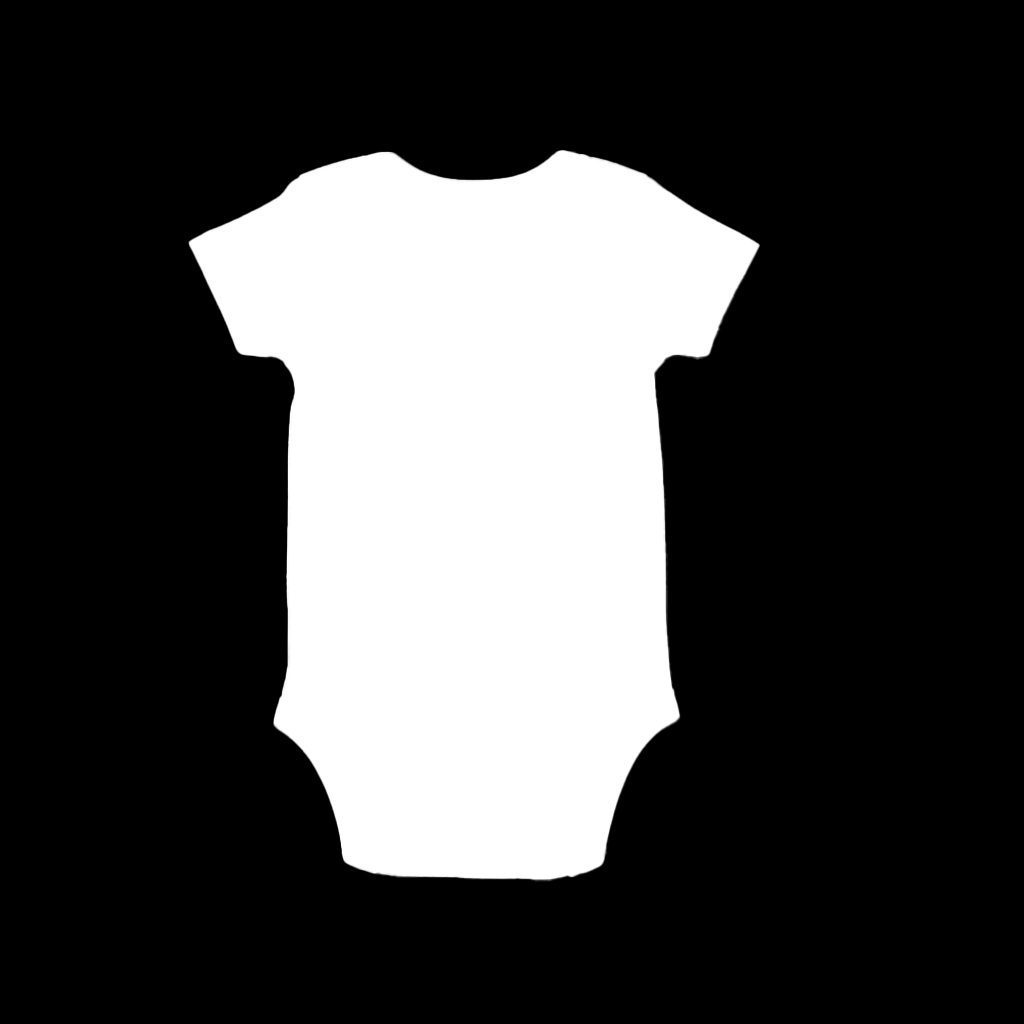
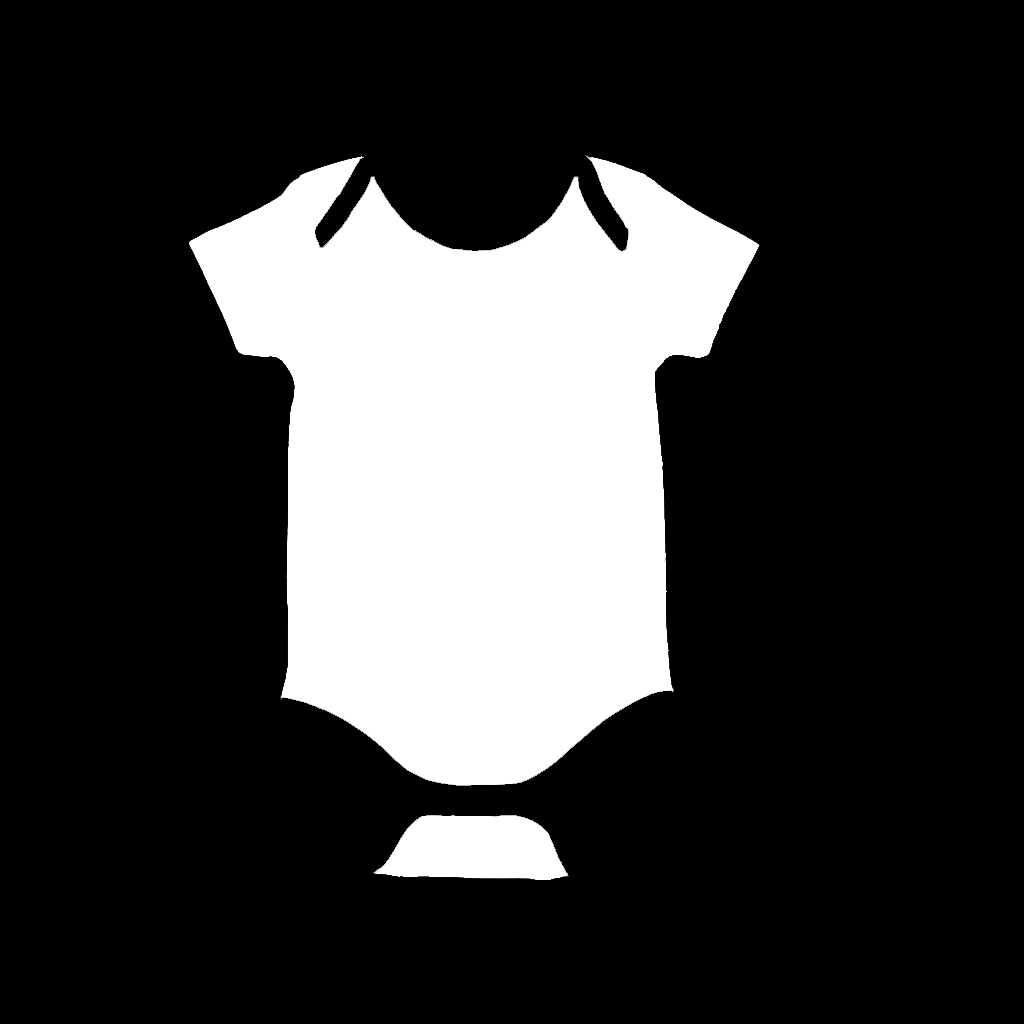
Add onesie trim color override and refresh masks
Expose a onesie trim color picker, support override rendering, and force mask reloads while updating the latest mask assets.

Changed region(s): [[0.25, 0.6562, 0.6875, 0.875], [0.3125, 0.125, 0.625, 0.25]]

diff --git a/src/components/sidebar/ActionsSidebar.tsx b/src/components/sidebar/ActionsSidebar.tsx
@@ -24,6 +24,7 @@ export default function ActionsSidebar({ image, dpi, tileWidth, tileHeight, repe
   const [densityAnalysis, setDensityAnalysis] = useState<DensityAnalysis | null>(null);
   const [isAnalyzing, setIsAnalyzing] = useState(false);
   const [selectedMockup, setSelectedMockup] = useState<string | null>(null);
+  const [mockupColorOverride, setMockupColorOverride] = useState<string | null>(null);
   const [isEasyscaleModalOpen, setIsEasyscaleModalOpen] = useState(false);
   const [tileCanvas, setTileCanvas] = useState<HTMLCanvasElement | null>(null);
   const [isPro] = useState(true); // TODO: Replace with actual Pro subscription check - TEMPORARILY TRUE FOR TESTING
@@ -255,7 +256,10 @@ export default function ActionsSidebar({ image, dpi, tileWidth, tileHeight, repe
         {selectedMockup && (
           <MockupModal
             isOpen={!!selectedMockup}
-            onClose={() => setSelectedMockup(null)}
+            onClose={() => {
+              setSelectedMockup(null);
+              setMockupColorOverride(null);
+            }}
             title={getMockupTemplate(selectedMockup as any)?.name}
             onDownload={() => {
               // Find the canvas element in the mockup renderer
@@ -264,7 +268,7 @@ export default function ActionsSidebar({ image, dpi, tileWidth, tileHeight, repe
                 const dataURL = mockupCanvas.toDataURL('image/png', 1.0);
                 const link = document.createElement('a');
                 const template = getMockupTemplate(selectedMockup as any);
-                link.download = originalFilename 
+                link.download = originalFilename
                   ? `${originalFilename}-${template?.name?.toLowerCase().replace(/\s+/g, '-') || 'mockup'}.png`
                   : `mockup-${template?.name?.toLowerCase().replace(/\s+/g, '-') || 'mockup'}.png`;
                 link.href = dataURL;
@@ -274,18 +278,43 @@ export default function ActionsSidebar({ image, dpi, tileWidth, tileHeight, repe
               }
             }}
           >
-            <div className="flex items-center justify-center bg-white rounded-lg p-4">
-              <div className="w-full max-w-2xl">
-                <MockupRenderer
-                  template={getMockupTemplate(selectedMockup as any)}
-                  patternImage={image}
-                  tileWidth={tileWidth}
-                  tileHeight={tileHeight}
-                  dpi={dpi}
-                  repeatType={repeatType}
-                  zoom={zoom}
-                  onClick={() => {}}
-                />
+            <div className="flex flex-col gap-3">
+              {/* Color picker for onesie only */}
+              {selectedMockup === 'onesie' && (
+                <div className="flex items-center justify-center gap-2 p-2 bg-[#ffe4e7] rounded-md">
+                  <label className="text-xs font-medium text-[#294051]">Onesie Trim Color:</label>
+                  <input
+                    type="color"
+                    value={mockupColorOverride || '#ffffff'}
+                    onChange={(e) => setMockupColorOverride(e.target.value)}
+                    className="w-10 h-8 rounded border border-[#92afa5]/30 cursor-pointer"
+                  />
+                  {mockupColorOverride && (
+                    <button
+                      onClick={() => setMockupColorOverride(null)}
+                      className="text-xs text-[#705046] hover:text-[#294051] underline"
+                    >
+                      Reset to auto
+                    </button>
+                  )}
+                </div>
+              )}
+
+              {/* Mockup preview */}
+              <div className="flex items-center justify-center bg-white rounded-lg p-4">
+                <div className="w-full max-w-2xl">
+                  <MockupRenderer
+                    template={getMockupTemplate(selectedMockup as any)}
+                    patternImage={image}
+                    tileWidth={tileWidth}
+                    tileHeight={tileHeight}
+                    dpi={dpi}
+                    repeatType={repeatType}
+                    zoom={zoom}
+                    onClick={() => {}}
+                    colorOverride={mockupColorOverride}
+                  />
+                </div>
               </div>
             </div>
           </MockupModal>

diff --git a/src/components/mockups/MockupRenderer.tsx b/src/components/mockups/MockupRenderer.tsx
@@ -14,6 +14,7 @@ interface MockupRendererProps {
   repeatType: RepeatType;
   zoom?: number;
   onClick?: () => void;
+  colorOverride?: string | null;
 }
 
 export default function MockupRenderer({
@@ -25,6 +26,7 @@ export default function MockupRenderer({
   repeatType,
   zoom,
   onClick,
+  colorOverride,
 }: MockupRendererProps) {
   const canvasRef = useRef<HTMLCanvasElement>(null);
   const [isRendering, setIsRendering] = useState(false);
@@ -112,7 +114,7 @@ export default function MockupRenderer({
       return best;
     };
 
-    // Pass 1: favor lighter tones
+    // Pass 1: favor lighter tones (works better for fabric appearance)
     let buckets = buildHistogram(180);
     let best = pickDominant(buckets);
 
@@ -142,7 +144,8 @@ export default function MockupRenderer({
     if (template.maskImage) {
       const img = new Image();
       img.onload = () => setMaskImage(img);
-      img.src = template.maskImage;
+      // Add cache-busting timestamp to force reload of updated images
+      img.src = `${template.maskImage}?v=${Date.now()}`;
     } else {
       setMaskImage(null);
     }
@@ -153,7 +156,8 @@ export default function MockupRenderer({
     if (isOnesie) {
       const img = new Image();
       img.onload = () => setColorMaskImage(img);
-      img.src = '/mockups/onesie_mask_color.png';
+      // Add cache-busting timestamp to force reload of updated images
+      img.src = `/mockups/onesie_mask_color.png?v=${Date.now()}`;
     } else {
       setColorMaskImage(null);
     }
@@ -331,7 +335,7 @@ export default function MockupRenderer({
             colorLayer.height = patternCanvas.height;
             const colorCtx = colorLayer.getContext('2d');
             if (colorCtx) {
-              colorCtx.fillStyle = extractBackgroundColor(patternImage);
+              colorCtx.fillStyle = colorOverride || extractBackgroundColor(patternImage);
               colorCtx.fillRect(0, 0, colorLayer.width, colorLayer.height);
               colorCtx.globalCompositeOperation = 'destination-in';
               const colorMaskCanvas = createMaskCanvas(colorMaskImage, patternArea.width, patternArea.height);
@@ -354,7 +358,7 @@ export default function MockupRenderer({
             }
 
             tempCtx.globalCompositeOperation = 'multiply';
-            tempCtx.globalAlpha = 1;
+            tempCtx.globalAlpha = 0.9;
             tempCtx.drawImage(colorLayer, 0, 0);
 
             tempCtx.globalCompositeOperation = 'multiply';
@@ -396,7 +400,7 @@ export default function MockupRenderer({
             colorLayer.height = patternCanvas.height;
             const colorCtx = colorLayer.getContext('2d');
             if (colorCtx) {
-              colorCtx.fillStyle = extractBackgroundColor(patternImage);
+              colorCtx.fillStyle = colorOverride || extractBackgroundColor(patternImage);
               colorCtx.fillRect(0, 0, colorLayer.width, colorLayer.height);
               colorCtx.globalCompositeOperation = 'destination-in';
               const colorMaskCanvas = createMaskCanvas(colorMaskImage, patternArea.width, patternArea.height);
@@ -446,7 +450,7 @@ export default function MockupRenderer({
     } else {
       setIsRendering(false);
     }
-  }, [template, mockupImage, maskImage, colorMaskImage, patternImage, tileWidth, tileHeight, dpi, repeatType, zoom]);
+  }, [template, mockupImage, maskImage, colorMaskImage, patternImage, tileWidth, tileHeight, dpi, repeatType, zoom, colorOverride]);
 
   // Prevent right-click and image copying
   const handleContextMenu = (e: React.MouseEvent) => {
